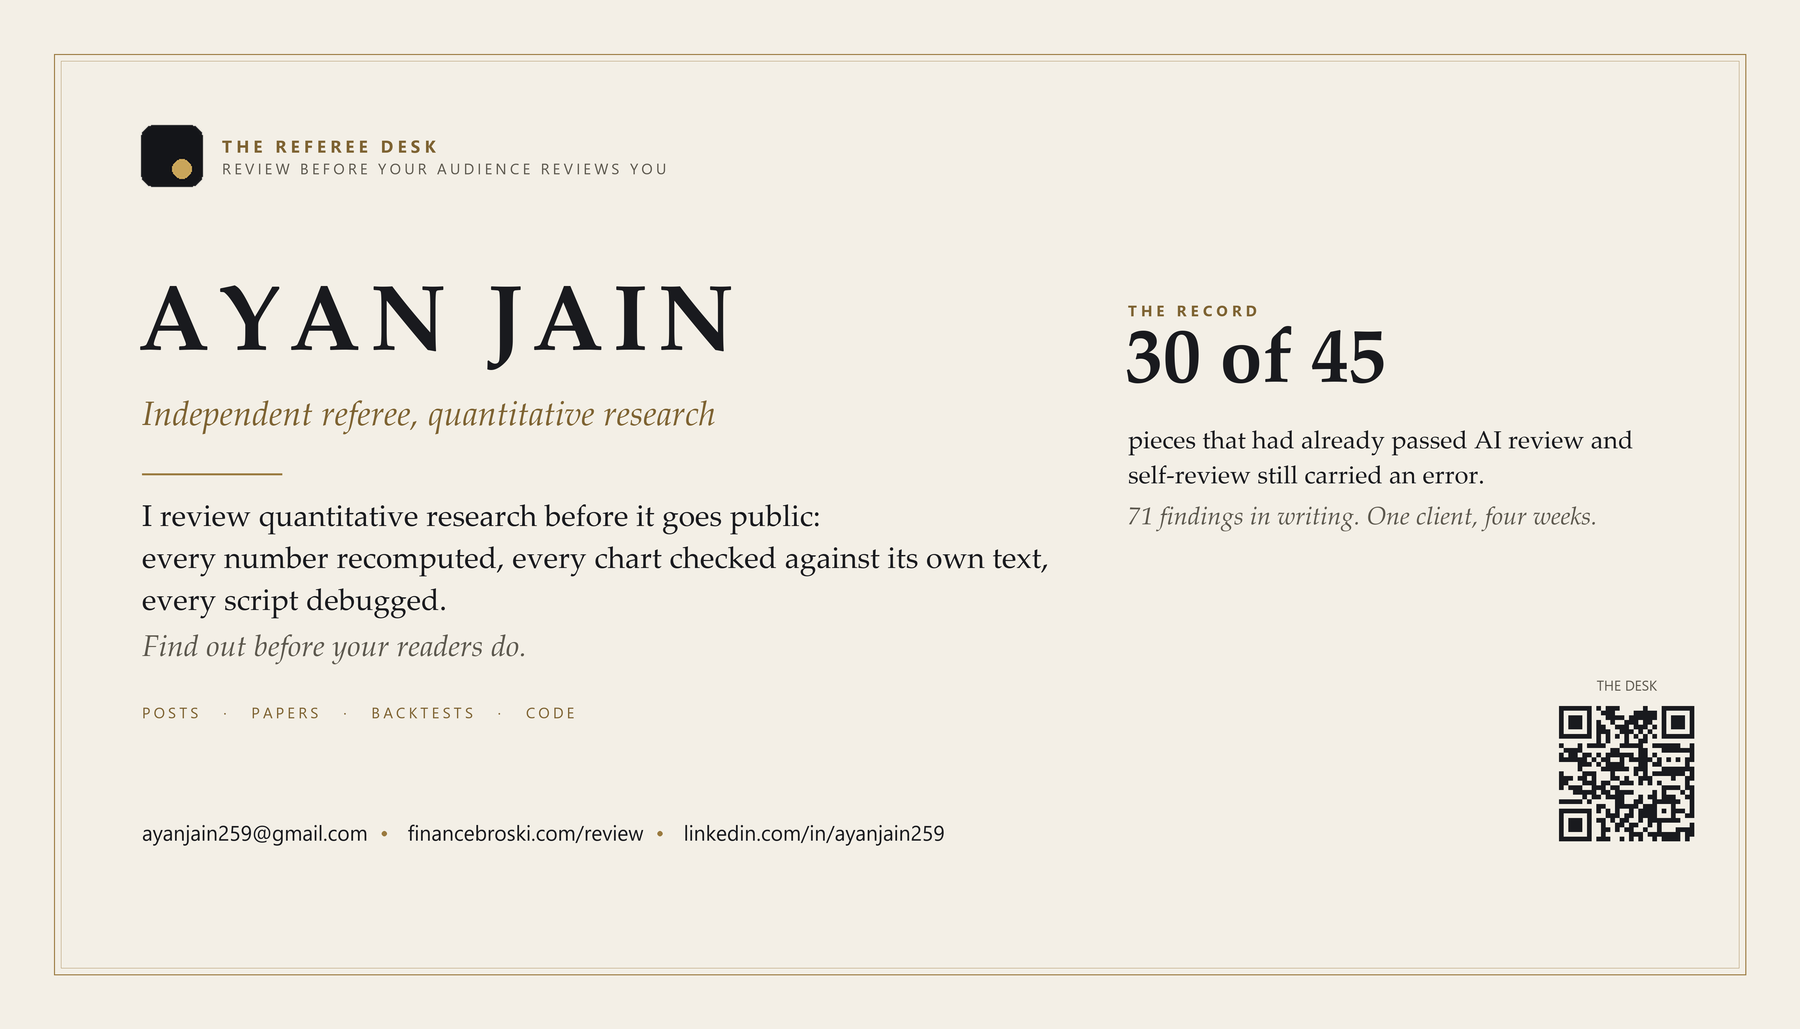
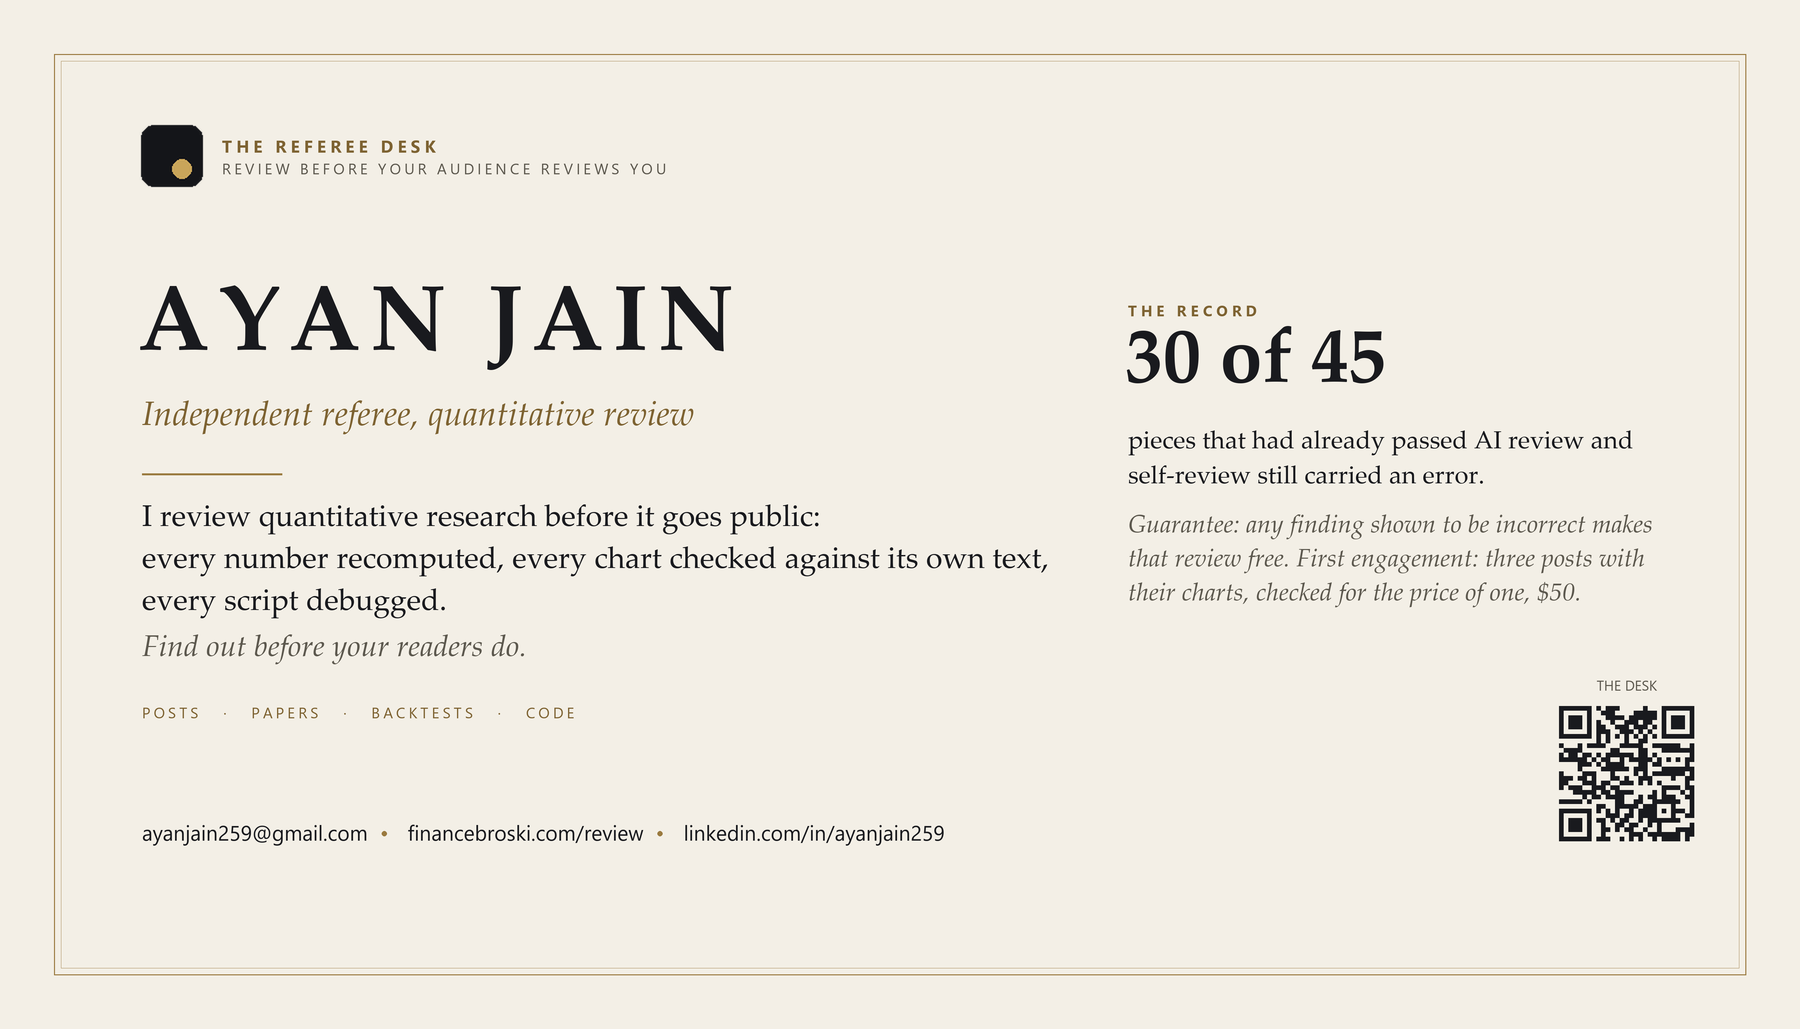
Card per Heather: count kept, the one-client line replaced by the guarantee and the trial, role line quantitative review
Claude-Session: https://claude.ai/code/session_01HtixSTThAjPBnEEUpmQUYh

Changed region(s): [[0.6222, 0.4976, 0.9333, 0.5909], [0.3422, 0.3732, 0.4044, 0.4354]]

diff --git a/card.html b/card.html
@@ -6,14 +6,14 @@
 <title>Ayan Jain, The Referee Desk</title>
 <meta name="description" content="Digital card for The Referee Desk: independent review of quantitative research before it goes public. Posts, papers, backtests, and the code underneath. Contact, site, one line.">
 <meta property="og:title" content="Ayan Jain, The Referee Desk">
-<meta property="og:description" content="I review quantitative research before it goes public: posts, papers, backtests, and the code underneath. Of 45 pieces that had already passed AI review and self-review, 30 still carried an error: 71 findings in writing, one client, four weeks. Find out before your readers do.">
+<meta property="og:description" content="I review quantitative research before it goes public: posts, papers, backtests, and the code underneath. Of 45 pieces that had already passed AI review and self-review, 30 still carried an error: 71 findings in writing. Guarantee: any finding shown to be incorrect makes that review free. First engagement: three posts with their charts, checked for the price of one, $50. Find out before your readers do.">
 <meta property="og:type" content="profile">
 <meta property="og:url" content="https://financebroski.com/card.html">
 <meta property="og:image" content="https://financebroski.com/card.png">
 <link rel="icon" type="image/png" href="mark.png">
 <meta name="referrer" content="strict-origin">
 <link rel="stylesheet" href="style.css">
-<script type="application/ld+json">{"@context":"https://schema.org","@type":"Person","name":"Ayan Jain","jobTitle":"Independent referee, quantitative research","url":"https://financebroski.com/review.html","email":"mailto:ayanjain259@gmail.com","sameAs":["https://www.linkedin.com/in/ayanjain259","https://financebroski.com"],"worksFor":{"@type":"Organization","name":"The Referee Desk","url":"https://financebroski.com/review.html"}}</script>
+<script type="application/ld+json">{"@context":"https://schema.org","@type":"Person","name":"Ayan Jain","jobTitle":"Independent referee, quantitative review","url":"https://financebroski.com/review.html","email":"mailto:ayanjain259@gmail.com","sameAs":["https://www.linkedin.com/in/ayanjain259","https://financebroski.com"],"worksFor":{"@type":"Organization","name":"The Referee Desk","url":"https://financebroski.com/review.html"}}</script>
 <style>
 body.card .wrap{max-width:560px;margin:0 auto;padding:2.6rem 1.2rem 3.5rem}
 body.card .vcard{background:var(--panel);border:1px solid var(--line);border-radius:14px;box-shadow:var(--shadow);padding:26px 26px 22px;border-top:4px solid var(--accent)}
@@ -44,7 +44,7 @@ body.card .fine{margin-top:1.1rem}
     <img class="mark" src="mark.png" alt="">
     <div class="kicker">The Referee Desk</div>
     <h1>Ayan Jain</h1>
-    <p class="one">I review quantitative research before it goes public: posts, papers, backtests, and the code underneath. Of 45 pieces that had already passed AI review and self-review, 30 still carried an error: 71 findings in writing, one client, four weeks.</p>
+    <p class="one">I review quantitative research before it goes public: posts, papers, backtests, and the code underneath. Of 45 pieces that had already passed AI review and self-review, 30 still carried an error: 71 findings in writing. Guarantee: any finding shown to be incorrect makes that review free. First engagement: three posts with their charts, checked for the price of one, $50.</p>
     <div class="rows">
       <div class="row"><span class="k">Email</span><a href="mailto:ayanjain259@gmail.com?subject=Review%20request">ayanjain259@gmail.com</a></div>
       <div class="row"><span class="k">Desk</span><a href="https://financebroski.com/review">financebroski.com/review</a></div>
